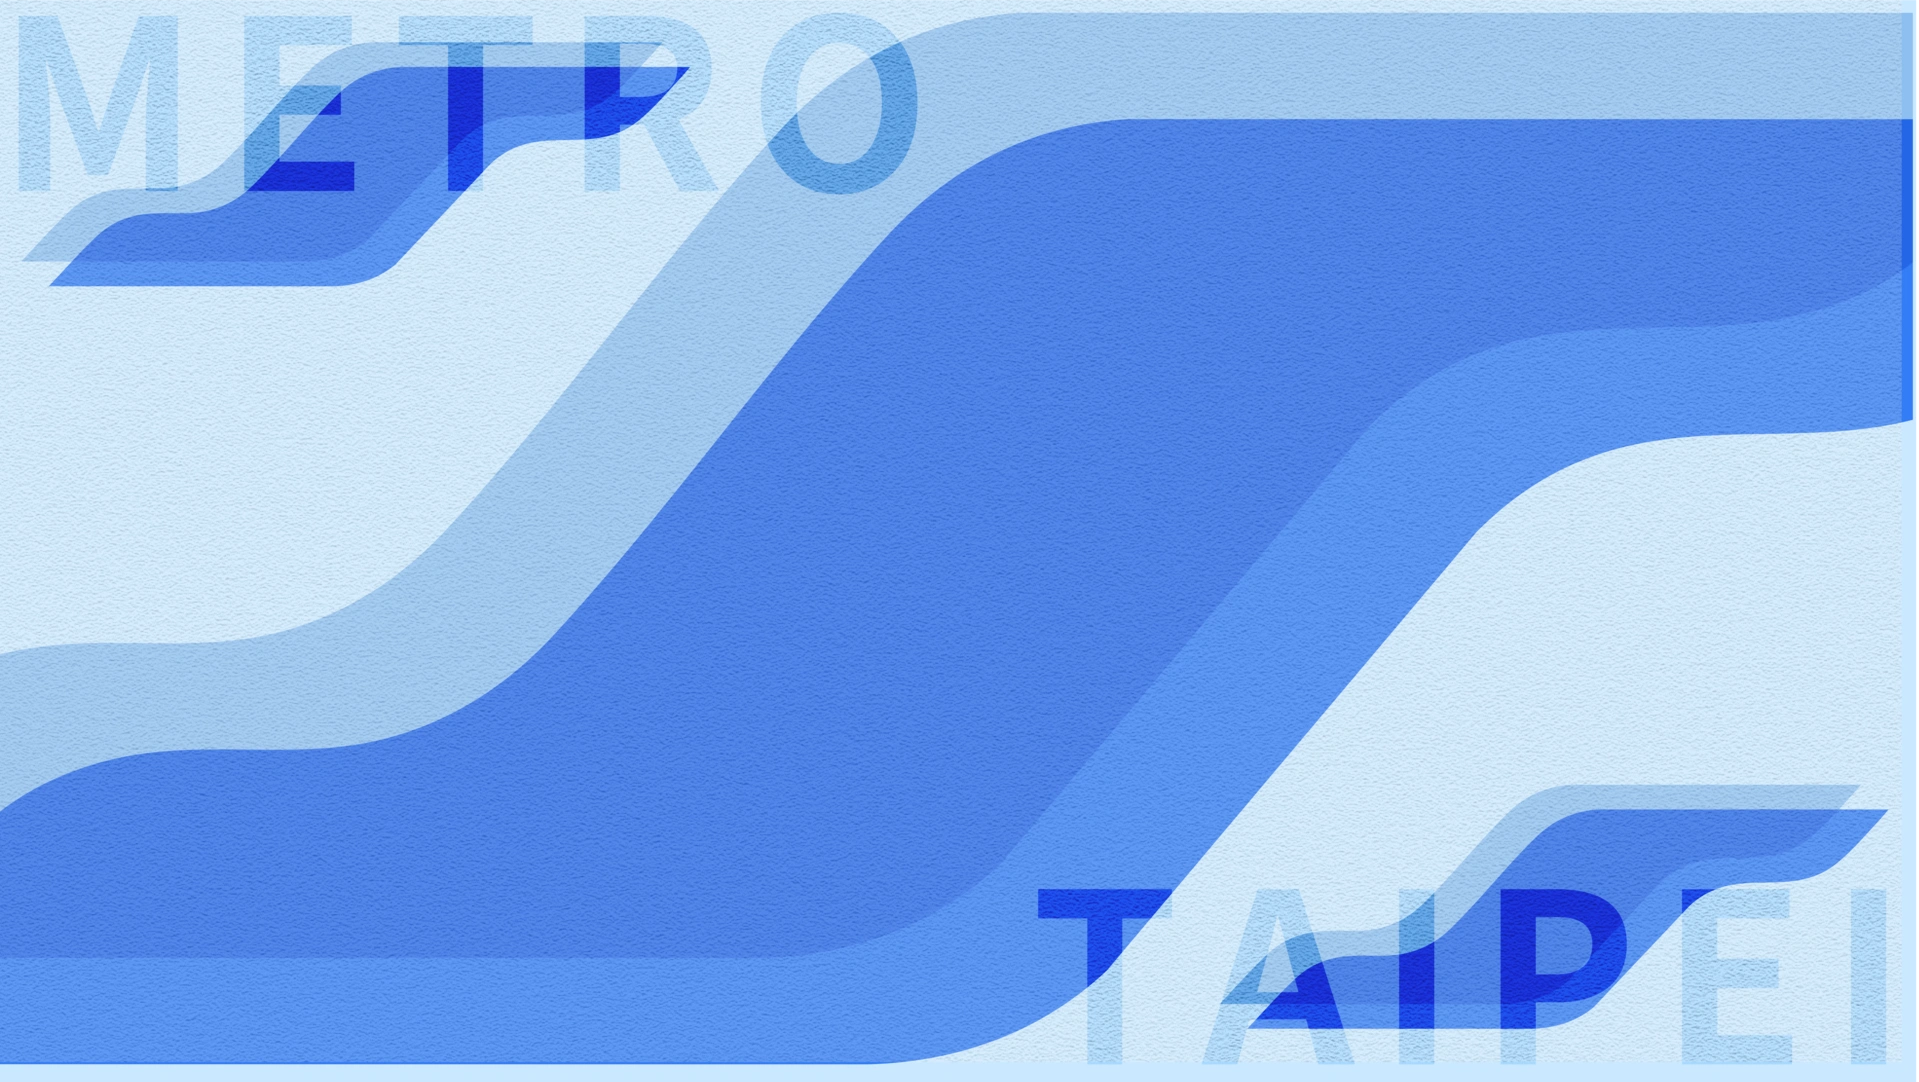
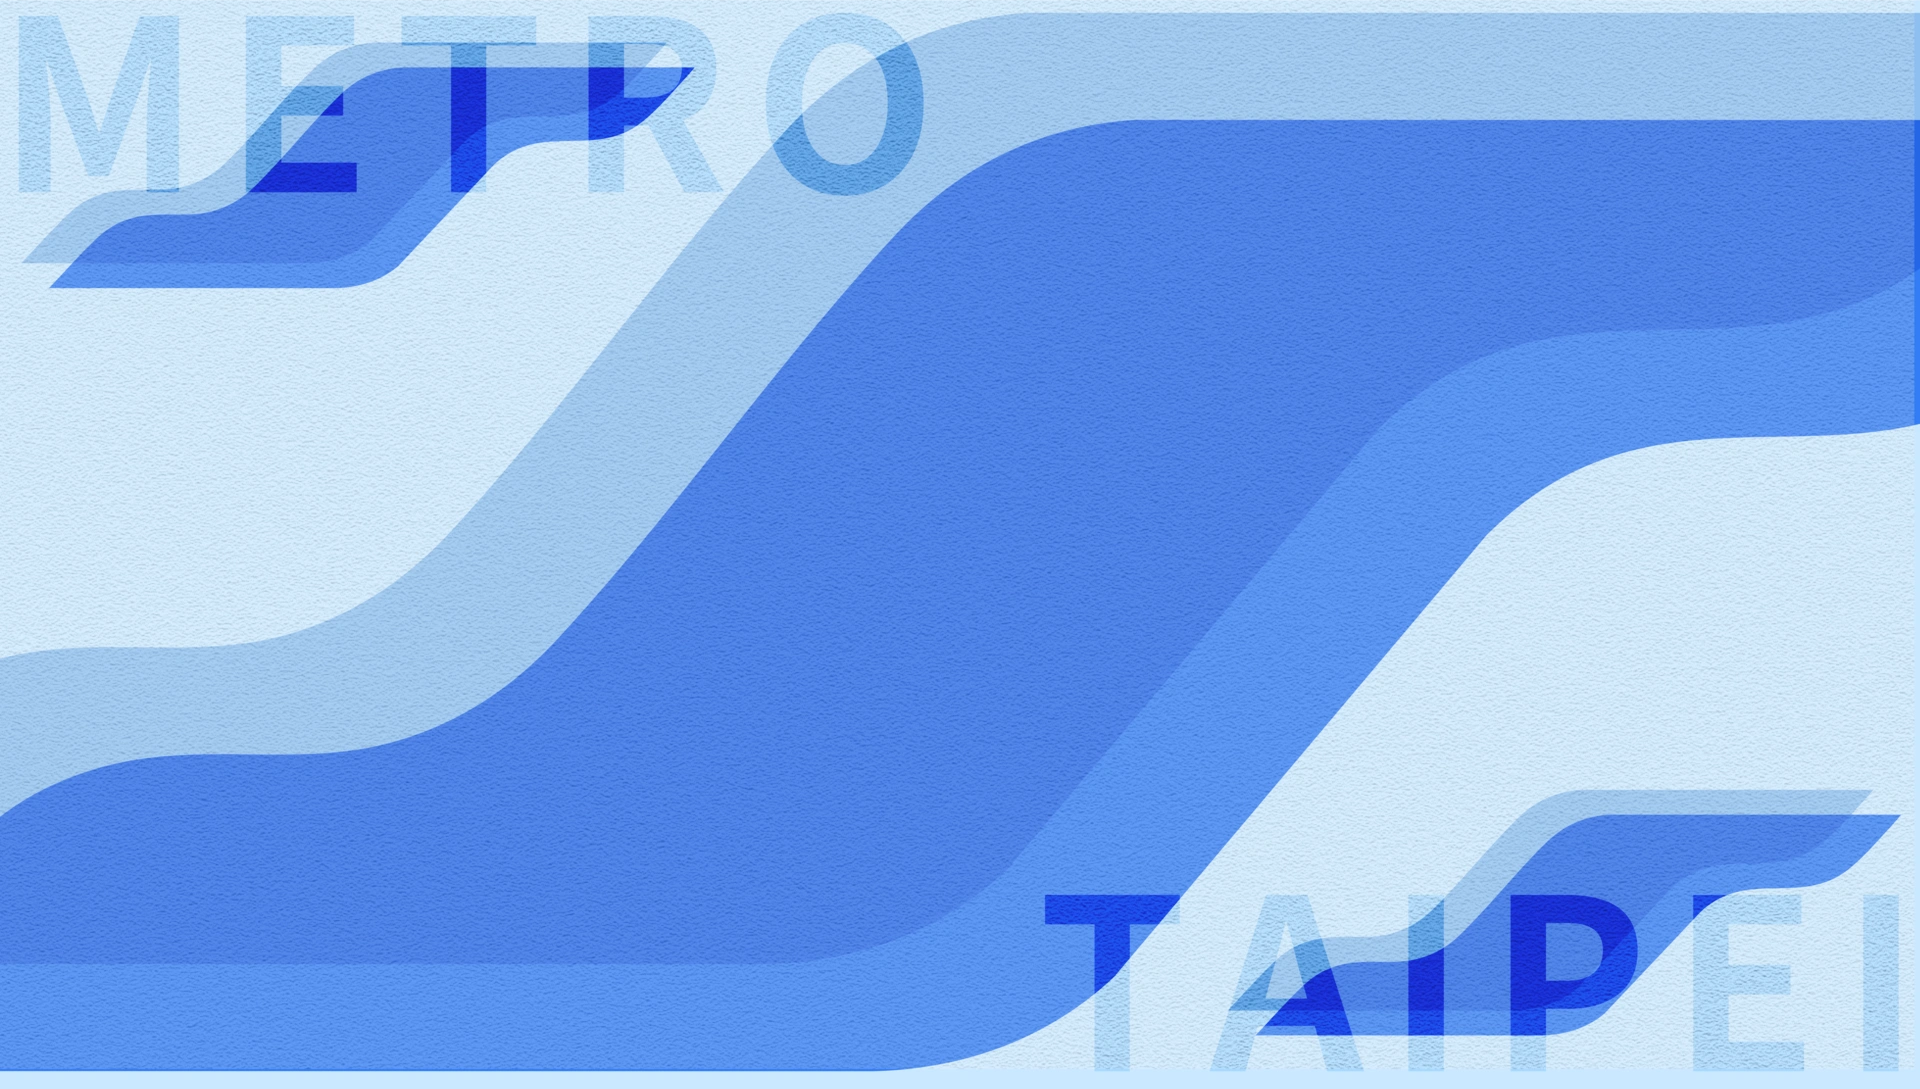
🎨 更新 Home.module.css 檔案以增強手機版 RWD 支援，新增火車動畫效果及樣式調整，並更新背景圖片。

diff --git a/src/pages/Home.jsx b/src/pages/Home.jsx
@@ -9,13 +9,14 @@ function Home() {
   const [tooltip, setTooltip] = useState({ show: false, text: '', x: 0, y: 0 });
   const [isFullscreen, setIsFullscreen] = useState(false);
   const [shakeIcon, setShakeIcon] = useState(null);
+  const [isTrainAnimating, setIsTrainAnimating] = useState(false);
 
   // 設置頁面標題
   usePageTitle("首頁 - 台北捷運智能助手");
 
   const handleMouseEnter = (featureName, event) => {
     // 有功能的圖標才顯示 tooltip
-    const functionalIcons = ["主頁", "捷運路線", "捷運小幫手", "路線擁擠程度", "GO優惠", "捷運點", "AI助理"];
+    const functionalIcons = ["主頁", "捷運路線", "捷運小幫手", "路線擁擠度", "GO優惠", "捷運點", "AI助理"];
 
     if (functionalIcons.includes(featureName)) {
       const rect = event.currentTarget.getBoundingClientRect();
@@ -35,7 +36,7 @@ function Home() {
   // 處理圖標點擊事件
   const handleIconClick = (featureName, event) => {
     // 有功能的圖標
-    const functionalIcons = ["主頁", "捷運路線", "捷運小幫手", "路線擁擠程度", "GO優惠", "捷運點", "AI助理"];
+    const functionalIcons = ["主頁", "捷運路線", "捷運小幫手", "路線擁擠度", "GO優惠", "捷運點", "AI助理"];
 
     if (functionalIcons.includes(featureName)) {
       if (featureName === "主頁") {
@@ -75,6 +76,17 @@ function Home() {
     return () => document.removeEventListener('fullscreenchange', handleFullscreenChange);
   }, []);
 
+  // 處理火車動畫
+  const handleTrainHover = () => {
+    if (!isTrainAnimating) {
+      setIsTrainAnimating(true);
+      // 動畫結束後重置狀態
+      setTimeout(() => {
+        setIsTrainAnimating(false);
+      }, 2000); // 2秒動畫時間
+    }
+  };
+
   return (
     <PageTransition>
       <section id="main-visual" className={styles.homeSection}>
@@ -82,11 +94,6 @@ function Home() {
         <div className={styles.outerBackground}></div>
 
         <div className={styles.mainContainer}>
-          <img
-            src="/images/train.webp"
-            alt="Abstract blue wave with the word TAIPEI"
-            className={styles.taipeiImage}
-          />
 
           {/* Central composition */}
           <div className={styles.centralComposition}>
@@ -188,12 +195,12 @@ function Home() {
               style={{ cursor: 'pointer' }}
             />
             <img
-              src="/images/路線擁擠程度.webp"
+              src="/images/路線擁擠度.webp"
               alt="Decorative floating icon"
-              className={`${styles.icon} ${styles.icon10} ${shakeIcon === "路線擁擠程度" ? styles.shake : ""}`}
-              onMouseEnter={(e) => handleMouseEnter("路線擁擠程度", e)}
+              className={`${styles.icon} ${styles.icon10} ${shakeIcon === "路線擁擠度" ? styles.shake : ""}`}
+              onMouseEnter={(e) => handleMouseEnter("路線擁擠度", e)}
               onMouseLeave={handleMouseLeave}
-              onClick={(e) => handleIconClick("路線擁擠程度", e)}
+              onClick={(e) => handleIconClick("路線擁擠度", e)}
               style={{ cursor: 'pointer' }}
             />
             <img
@@ -230,18 +237,27 @@ function Home() {
             </div>
           )}
 
-          {/* Fullscreen button - positioned at top right of entire screen */}
-          <button
-            onClick={toggleFullscreen}
-            className="fixed top-8 right-8 z-30 p-4 backdrop-blur-md bg-white/20 border border-white/30 shadow-lg rounded-3xl animate-fade-in hover:scale-105 transition-all duration-300"
-            title={isFullscreen ? "退出全螢幕" : "進入全螢幕"}
-            style={{ position: 'fixed' }}
-          >
-            <svg xmlns="http://www.w3.org/2000/svg" viewBox="0 0 20 20" fill="currentColor" className="w-6 h-6 text-black">
-              <path d="m13.28 7.78 3.22-3.22v2.69a.75.75 0 0 0 1.5 0v-4.5a.75.75 0 0 0-.75-.75h-4.5a.75.75 0 0 0 0 1.5h2.69l-3.22 3.22a.75.75 0 0 0 1.06 1.06ZM2 17.25v-4.5a.75.75 0 0 1 1.5 0v2.69l3.22-3.22a.75.75 0 0 1 1.06 1.06L4.56 16.5h2.69a.75.75 0 0 1 0 1.5h-4.5a.747.747 0 0 1-.75-.75ZM12.22 13.28l3.22 3.22h-2.69a.75.75 0 0 0 0 1.5h4.5a.747.747 0 0 0 .75-.75v-4.5a.75.75 0 0 0-1.5 0v2.69l-3.22-3.22a.75.75 0 1 0-1.06 1.06ZM3.5 4.56l3.22 3.22a.75.75 0 0 0 1.06-1.06L4.56 3.5h2.69a.75.75 0 0 0 0-1.5h-4.5a.75.75 0 0 0-.75.75v4.5a.75.75 0 0 0 1.5 0V4.56Z" />
-            </svg>
-          </button>
         </div>
+
+        {/* 火車圖片 - 固定在左下角 */}
+        <img
+          src="/images/train.webp"
+          alt="Abstract blue wave with the word TAIPEI"
+          className={`${styles.trainImage} ${isTrainAnimating ? styles.trainAnimating : ''}`}
+          onMouseEnter={handleTrainHover}
+        />
+
+        {/* Fullscreen button - positioned at top right of entire screen */}
+        <button
+          onClick={toggleFullscreen}
+          className="fixed top-8 right-8 z-30 p-4 backdrop-blur-md bg-white/20 border border-white/30 shadow-lg rounded-3xl animate-fade-in hover:scale-105 transition-all duration-300"
+          title={isFullscreen ? "退出全螢幕" : "進入全螢幕"}
+          style={{ position: 'fixed' }}
+        >
+          <svg xmlns="http://www.w3.org/2000/svg" viewBox="0 0 20 20" fill="currentColor" className="w-6 h-6 text-black">
+            <path d="m13.28 7.78 3.22-3.22v2.69a.75.75 0 0 0 1.5 0v-4.5a.75.75 0 0 0-.75-.75h-4.5a.75.75 0 0 0 0 1.5h2.69l-3.22 3.22a.75.75 0 0 0 1.06 1.06ZM2 17.25v-4.5a.75.75 0 0 1 1.5 0v2.69l3.22-3.22a.75.75 0 0 1 1.06 1.06L4.56 16.5h2.69a.75.75 0 0 1 0 1.5h-4.5a.747.747 0 0 1-.75-.75ZM12.22 13.28l3.22 3.22h-2.69a.75.75 0 0 0 0 1.5h4.5a.747.747 0 0 0 .75-.75v-4.5a.75.75 0 0 0-1.5 0v2.69l-3.22-3.22a.75.75 0 1 0-1.06 1.06ZM3.5 4.56l3.22 3.22a.75.75 0 0 0 1.06-1.06L4.56 3.5h2.69a.75.75 0 0 0 0-1.5h-4.5a.75.75 0 0 0-.75.75v4.5a.75.75 0 0 0 1.5 0V4.56Z" />
+          </svg>
+        </button>
       </section>
     </PageTransition>
   );

diff --git a/src/pages/Home.module.css b/src/pages/Home.module.css
@@ -46,15 +46,88 @@
     }
 }
 
+/* 手機版RWD - 保持1440:1024比例但適應手機螢幕 */
+@media (max-width: 768px) {
+    .homeSection {
+        padding: 20px 0;
+        align-items: flex-start;
+        padding-top: 100px;
+    }
+
+    .mainContainer {
+        /* 根據視窗高度減去上下margin來計算容器高度 */
+        height: calc(100vh - 200px);
+        /* 根據高度計算寬度保持1440:1024比例 */
+        width: calc((100vh - 200px) * 1440 / 1024);
+        /* 重置max-width限制 */
+        max-width: none;
+        /* 讓容器可以超出螢幕邊緣 */
+        margin-left: calc((100vw - calc((100vh - 200px) * 1440 / 1024)) / 2);
+        margin-right: calc((100vw - calc((100vh - 200px) * 1440 / 1024)) / 2);
+    }
+
+    /* 火車在手機版的調整 */
+    .trainImage {
+        width: 200px;
+        bottom: 10px;
+        left: 10px;
+    }
+
+    @keyframes trainMoveOut {
+        0% {
+            transform: translateX(0);
+            opacity: 0.7;
+        }
+
+        20% {
+            opacity: 1;
+        }
+
+        100% {
+            transform: translateX(calc(100vw + 200px));
+            opacity: 0;
+        }
+    }
+}
 
 
-.taipeiImage {
-    position: absolute;
-    top: 84.28%;
-    left: 0;
-    width: 40.63%;
-    height: 15.72%;
-    z-index: 2;
+
+/* 火車圖片 - 固定在左下角 */
+.trainImage {
+    position: fixed;
+    bottom: 0px;
+    left: -20px;
+    width: 300px;
+    height: auto;
+    z-index: 10;
+    opacity: 0.7;
+    transition: opacity 0.3s ease;
+    cursor: pointer;
+}
+
+.trainImage:hover {
+    opacity: 1;
+}
+
+/* 火車動畫效果 */
+.trainAnimating {
+    animation: trainMoveOut 2s ease-in-out forwards;
+}
+
+@keyframes trainMoveOut {
+    0% {
+        transform: translateX(0);
+        opacity: 0.7;
+    }
+
+    20% {
+        opacity: 1;
+    }
+
+    100% {
+        transform: translateX(calc(100vw + 300px));
+        opacity: 0;
+    }
 }
 
 .centralComposition {
@@ -119,11 +192,19 @@
     color: #253c6b;
     font-family: 'Roboto', sans-serif;
     font-weight: 600;
-    font-size: clamp(8px, 1.04vw, 15px);
-    line-height: clamp(20px, 2.77vw, 40px);
-    letter-spacing: clamp(2px, 0.41vw, 6px);
+    font-size: 18px;
+    line-height: 35px;
+    letter-spacing: 2.5px;
     text-align: center;
     white-space: nowrap;
+}
+
+@media (max-width: 1024px) {
+    .titleText {
+        font-size: 14px;
+        line-height: 25px;
+        letter-spacing: 2.5px;
+    }
 }
 
 .floatingIcons {
@@ -156,6 +237,12 @@
 
 .nonFunctional:hover {
     transform: none !important;
+    filter: drop-shadow(2px 4px 3px rgba(37, 60, 107, 0.69)) !important;
+}
+
+/* 為有旋轉的不可點擊圖標保持原始旋轉，但移除 hover 縮放效果 */
+.icon11.nonFunctional:hover {
+    transform: rotate(-25.14deg) !important;
     filter: drop-shadow(2px 4px 3px rgba(37, 60, 107, 0.69)) !important;
 }
 
@@ -415,5 +502,26 @@
     60%,
     80% {
         transform: rotate(13.97deg) translateX(5px);
+    }
+}
+
+/* 手機版更小螢幕的額外調整 */
+@media (max-width: 480px) {
+    .homeSection {
+        padding: 10px 0;
+        padding-top: 120px;
+    }
+
+    .mainContainer {
+        height: calc(100vh - 240px);
+        width: calc((100vh - 240px) * 1440 / 1024);
+        margin-left: calc((100vw - calc((100vh - 240px) * 1440 / 1024)) / 2);
+        margin-right: calc((100vw - calc((100vh - 240px) * 1440 / 1024)) / 2);
+    }
+
+    .trainImage {
+        width: 150px;
+        bottom: 5px;
+        left: 5px;
     }
 }

diff --git a/src/pages/Demo.jsx b/src/pages/Demo.jsx
@@ -52,8 +52,8 @@ function Demo() {
       conclusion: "讓AI助手陪伴您的每一趟捷運之旅，享受智慧出行體驗。",
       iframeSrc: "https://embed.figma.com/proto/tMAW66DZsdvjgcRsNeyXGp/2025-%E5%8C%97%E6%8D%B7%E9%BB%91%E5%AE%A2%E6%9D%BE%EF%BC%88edu-?node-id=740-562&p=f&scaling=min-zoom&content-scaling=fixed&page-id=1%3A11550&starting-point-node-id=740%3A562&embed-host=share&hide-ui=1"
     },
-    "路線擁擠程度": {
-      title: "路線擁擠程度",
+    "路線擁擠度": {
+      title: "路線擁擠度",
       subtitle: "Route Congestion Level",
       description: "即時監控各路線的擁擠狀況，幫助您選擇最舒適的出行時間。",
       features: [

diff --git a/src/components/ActionCards.jsx b/src/components/ActionCards.jsx
@@ -212,7 +212,7 @@ const ActionCards = ({
 
               {/* Label */}
               <div className="absolute bottom-1 left-2">
-                <span className={`text-sm font-bold tracking-[0.1em] transition-colors duration-300 ${mode === 'work' ? 'text-primary-blue' : 'text-travel-green'}`}>會議模式</span>
+                <span className={`text-sm font-bold tracking-[0.1em] transition-colors duration-300 ${mode === 'work' ? 'text-primary-blue' : 'text-travel-green'}`}> {mode === 'work' ? '會議模式' : '靜音模式'} </span>
               </div>
             </div>
           </div>

diff --git a/src/components/CallingPopup.jsx b/src/components/CallingPopup.jsx
@@ -33,7 +33,7 @@ function CallingPopup({ mode = 'work', type = 'meeting' }) {
             className="mt-1 text-l font-bold text-neutral-900"
             data-name="Name"
           >
-            {type === 'meeting' ? '會議模式已開啟' : (
+            {type === 'meeting' ? mode === 'work' ? '會議模式已開啟' : '靜音模式已開啟' : (
               <>
                 正在撥號 <span className={`${mode === 'work' ? 'text-primary-blue' : 'text-travel-green'}`}>
                   {mode === 'work' ? '廠商（09664…' : '爸爸（09664…'}
